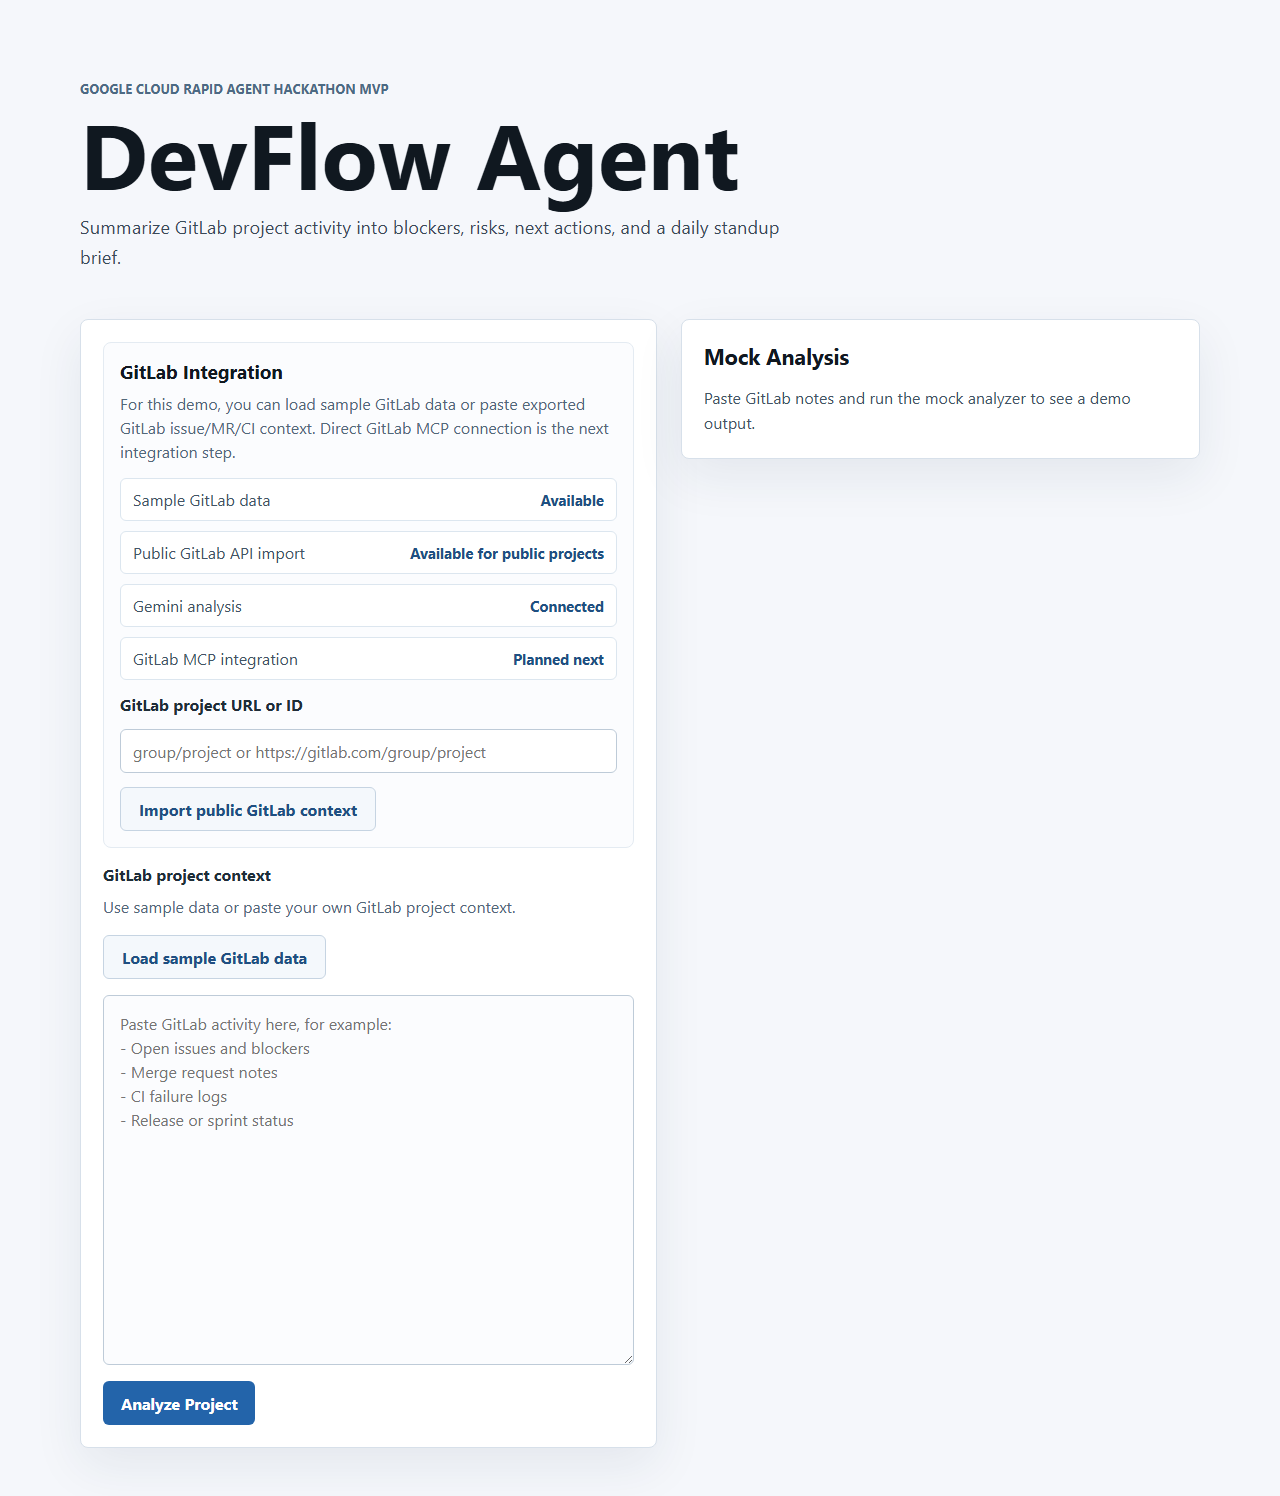
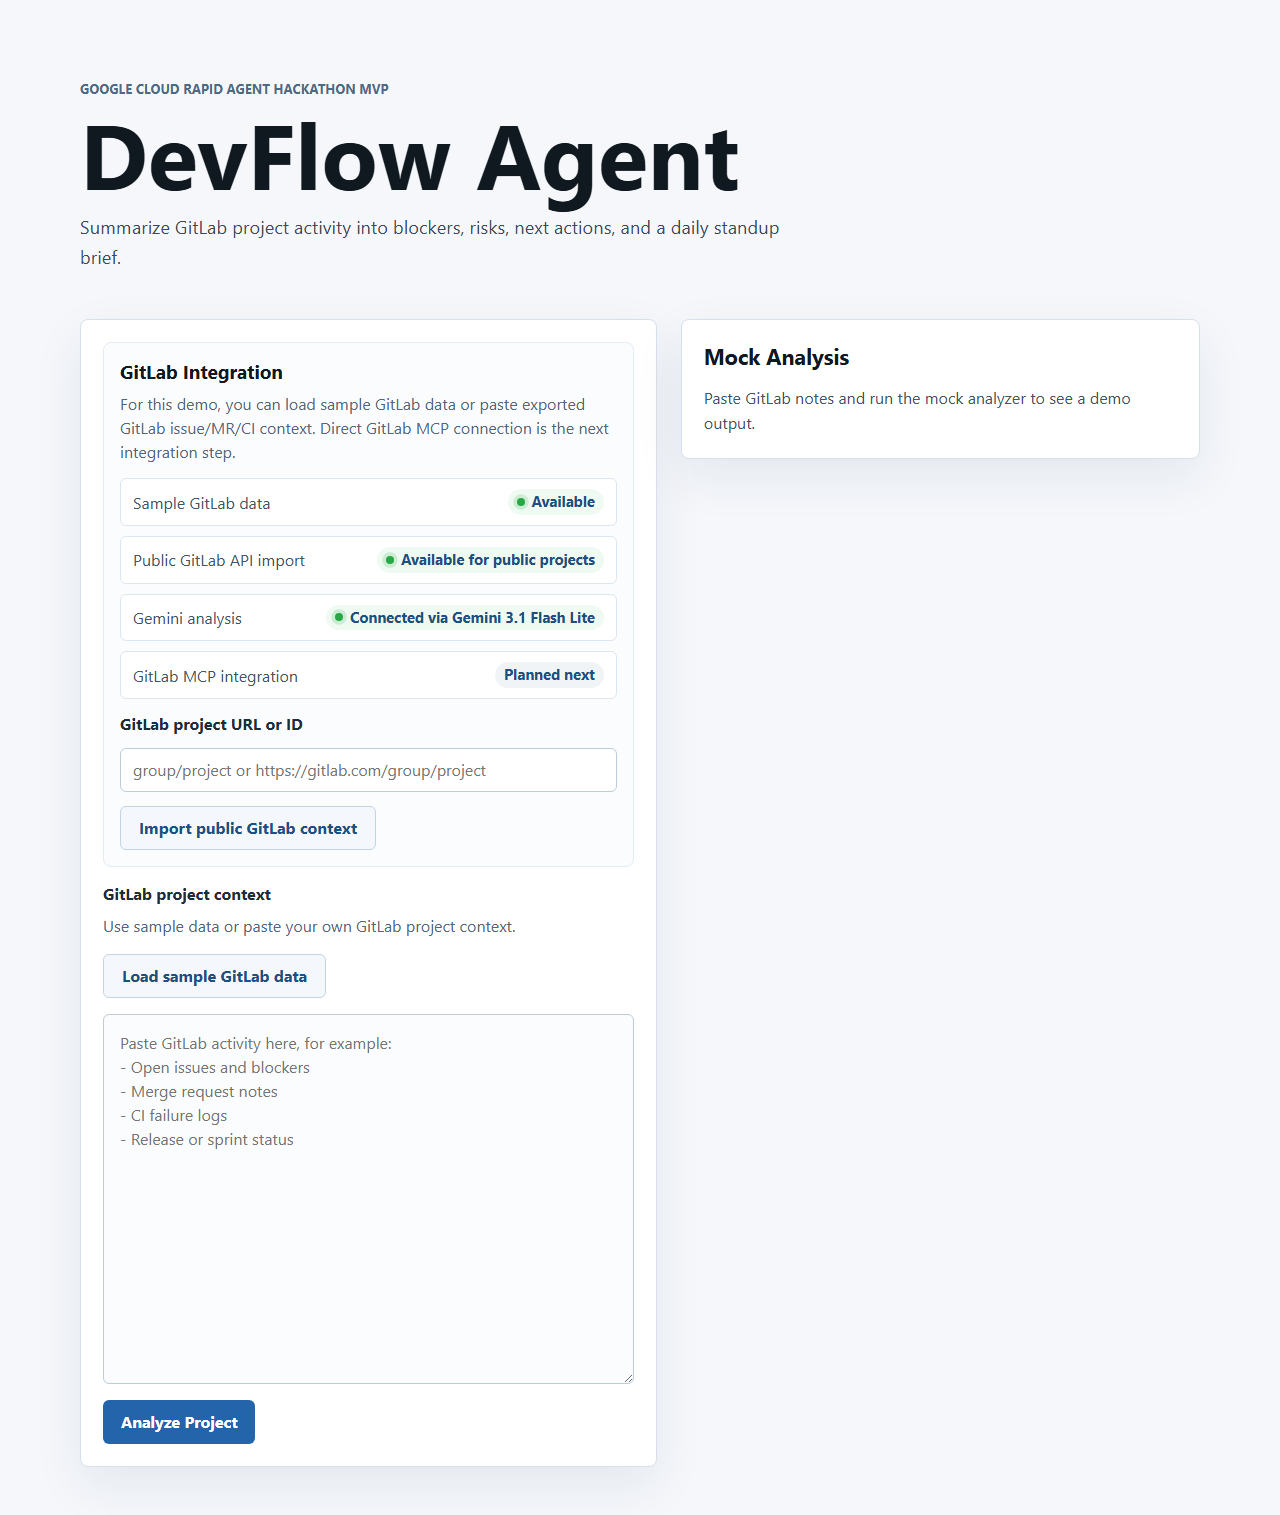
Regenerate Devpost screenshots

diff --git a/tests/demo-screenshots.spec.ts b/tests/demo-screenshots.spec.ts
@@ -14,18 +14,16 @@ test('captures DevFlow Agent demo screenshots', async ({ page }) => {
   await page.screenshot({ path: 'screenshots/02-sample-data-loaded.png', fullPage: true });
 
   await page.getByRole('button', { name: 'Analyze Project' }).click();
-
-  let analysisSource = 'Gemini';
-
-  try {
-    await expect(page.getByRole('heading', { name: 'Gemini Analysis' })).toBeVisible({ timeout: 45_000 });
-  } catch {
-    await expect(page.getByRole('heading', { name: 'Mock Analysis' })).toBeVisible({ timeout: 15_000 });
-    analysisSource = 'Mock';
-    console.warn('Warning: screenshot flow captured Mock Analysis instead of Gemini Analysis.');
-  }
-
+  await expect(page.getByRole('heading', { name: 'Gemini Analysis' })).toBeVisible({ timeout: 45_000 });
   await expect(page.getByRole('heading', { name: 'Daily Standup Summary' })).toBeVisible();
-  console.log(`Screenshot analysis source: ${analysisSource}`);
+  console.log('Screenshot analysis source: Gemini');
   await page.screenshot({ path: 'screenshots/03-analysis-result.png', fullPage: true });
+
+  await page.getByLabel('GitLab project URL or ID').fill('https://gitlab.com/gitlab-org/gitlab-runner');
+  await page.getByRole('button', { name: 'Import public GitLab context' }).click();
+  await expect(page.getByText('Public GitLab API import loaded into the project context field.')).toBeVisible({
+    timeout: 30_000,
+  });
+  await expect(page.getByLabel('GitLab project context')).toHaveValue(/gitlab-org\/gitlab-runner/i);
+  await page.screenshot({ path: 'screenshots/04-public-gitlab-import.png', fullPage: true });
 });
